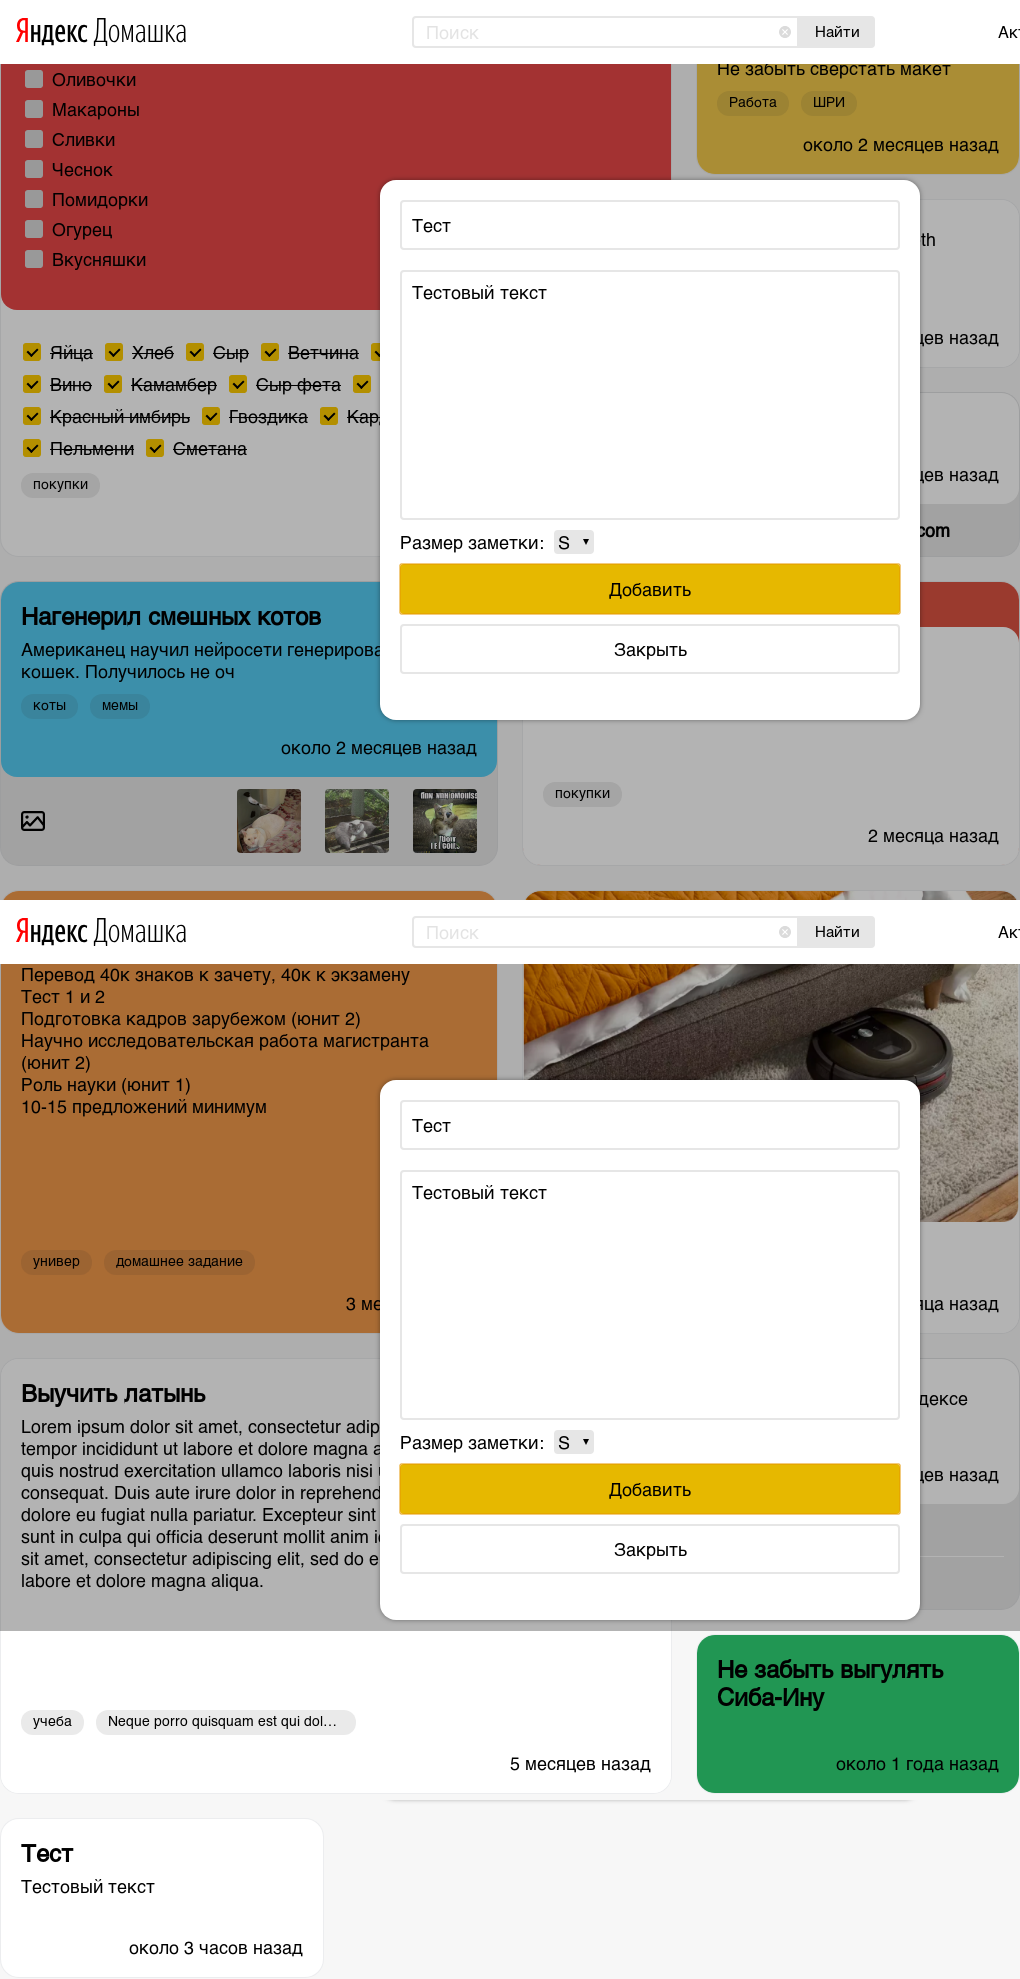
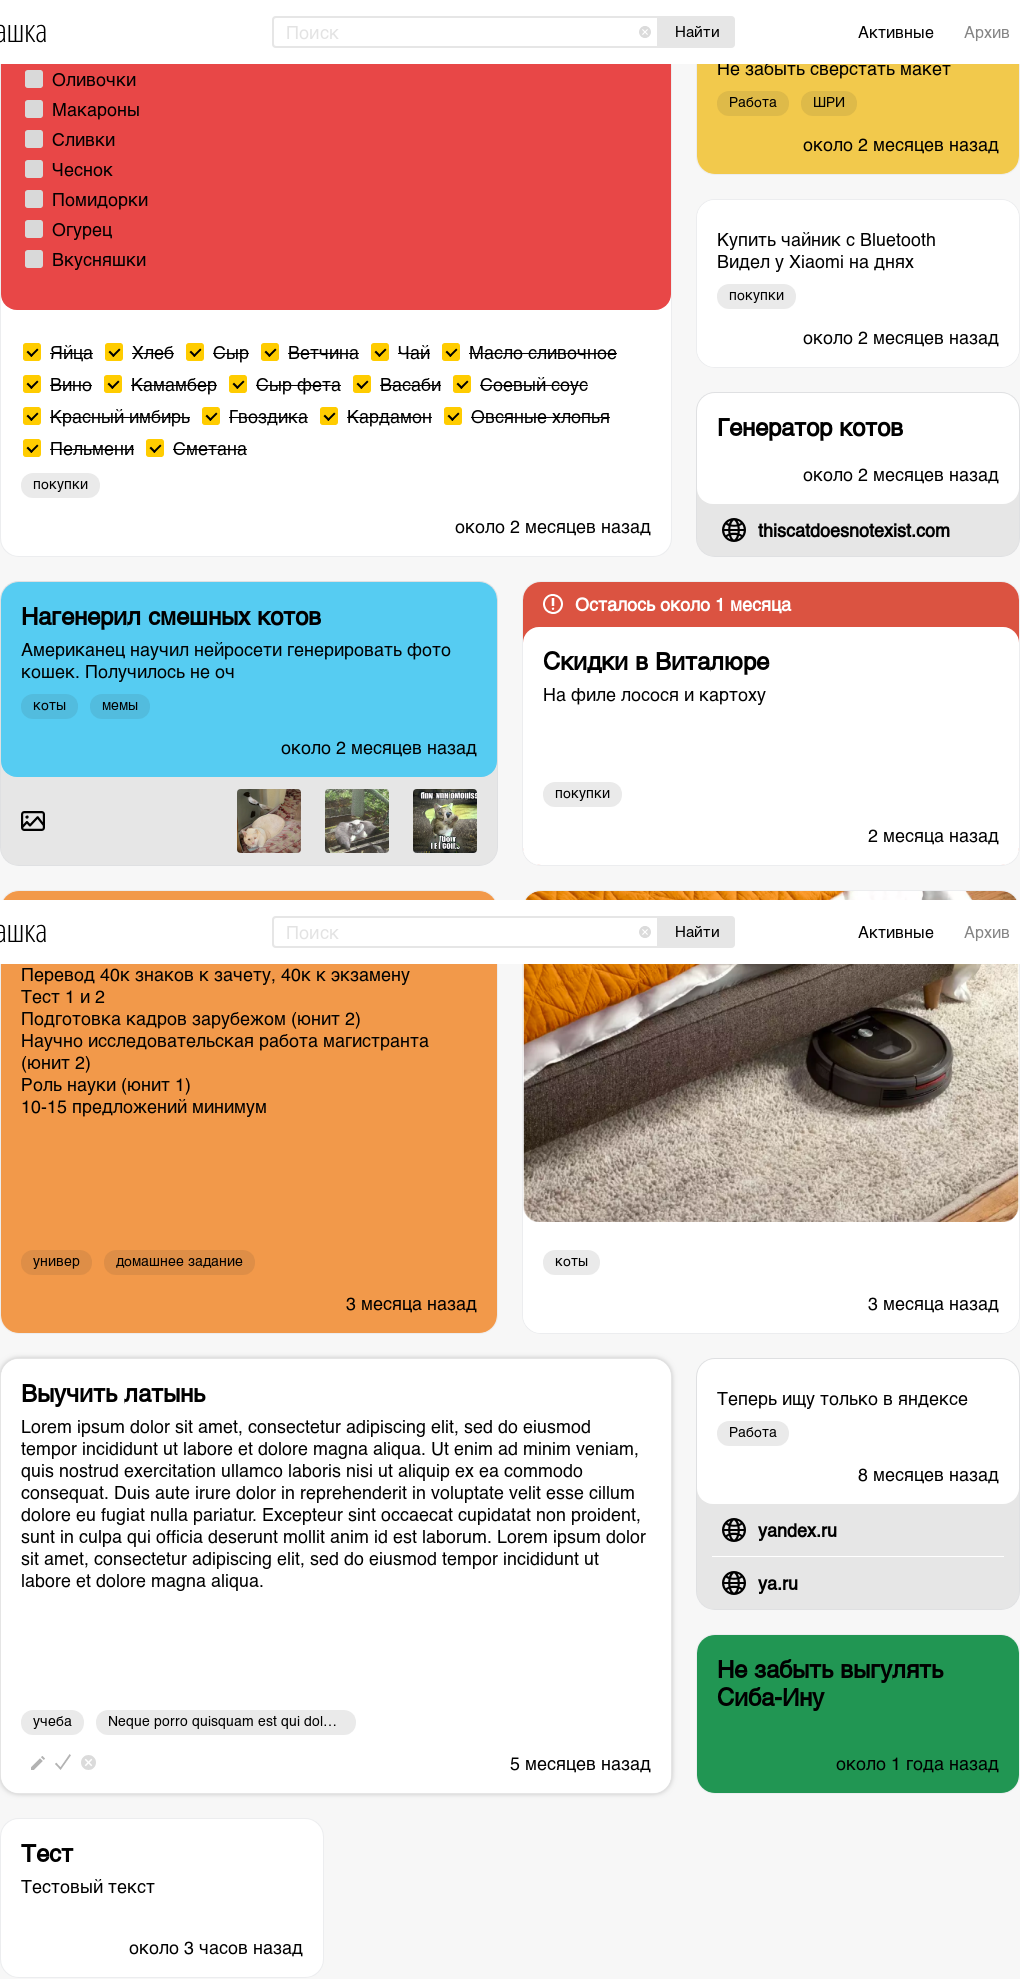
fix css

diff --git a/client/hermione/hermione-reports/data.js b/client/hermione/hermione-reports/data.js
@@ -1,2 +1,2 @@
-var data = {"skips":[],"suites":[{"name":"Web page tests: ","suitePath":["Web page tests: "],"children":[{"name":"Add note","suitePath":["Web page tests: ","Add note"],"browsers":[{"name":"chromeXL","result":{"suiteUrl":"http://localhost:3000/","name":"chromeXL","metaInfo":{"pid":14590,"url":"/","file":"hermione/simple.hermione.js","sessionId":"a38ec7e5594d2519bc608b02d3b5fac7"},"imagesInfo":[],"screenshot":false,"multipleTabs":true,"status":"success","attempt":0},"retries":[]}],"status":"success"},{"name":"Add note to archive","suitePath":["Web page tests: ","Add note to archive"],"browsers":[{"name":"chromeXL","result":{"suiteUrl":"http://localhost:3000/","name":"chromeXL","metaInfo":{"pid":14590,"url":"/","file":"hermione/simple.hermione.js","sessionId":"a38ec7e5594d2519bc608b02d3b5fac7"},"imagesInfo":[],"screenshot":false,"multipleTabs":true,"status":"success","attempt":0},"retries":[]}],"status":"success"},{"name":"Edit note","suitePath":["Web page tests: ","Edit note"],"browsers":[{"name":"chromeXL","result":{"suiteUrl":"http://localhost:3000/","name":"chromeXL","metaInfo":{"pid":14590,"url":"/","file":"hermione/simple.hermione.js","sessionId":"a38ec7e5594d2519bc608b02d3b5fac7"},"imagesInfo":[],"screenshot":false,"multipleTabs":true,"status":"success","attempt":0},"retries":[]}],"status":"success"},{"name":"Notes filter","suitePath":["Web page tests: ","Notes filter"],"browsers":[{"name":"chromeXL","result":{"suiteUrl":"http://localhost:3000/","name":"chromeXL","metaInfo":{"pid":14590,"url":"/","file":"hermione/simple.hermione.js","sessionId":"a38ec7e5594d2519bc608b02d3b5fac7"},"imagesInfo":[{"stateName":"filter","refImg":{"path":"/home/artem/Документы/yandex/homework/client/hermione/screens/521aa83/chromeXL/filter.png","size":{"width":1020,"height":105}},"status":"success","expectedImg":{"path":"images/521aa83/filter/chromeXL~ref_0.png","size":{"width":1020,"height":105}}}],"screenshot":false,"multipleTabs":true,"status":"success","attempt":0},"retries":[]}],"status":"success"},{"name":"Show note controls","suitePath":["Web page tests: ","Show note controls"],"browsers":[{"name":"chromeXL","result":{"suiteUrl":"http://localhost:3000/","name":"chromeXL","metaInfo":{"pid":14590,"url":"/","file":"hermione/simple.hermione.js","sessionId":"a38ec7e5594d2519bc608b02d3b5fac7"},"imagesInfo":[{"stateName":"showControls","refImg":{"path":"/home/artem/Документы/yandex/homework/client/hermione/screens/1230db3/chromeXL/showControls.png","size":{"width":688,"height":573}},"status":"success","expectedImg":{"path":"images/1230db3/showControls/chromeXL~ref_0.png","size":{"width":688,"height":573}}}],"screenshot":false,"multipleTabs":true,"status":"success","attempt":0},"retries":[]}],"status":"success"},{"name":"Show note form","suitePath":["Web page tests: ","Show note form"],"browsers":[{"name":"chromeXL","result":{"suiteUrl":"http://localhost:3000/","name":"chromeXL","metaInfo":{"pid":14590,"url":"/","file":"hermione/simple.hermione.js","sessionId":"a38ec7e5594d2519bc608b02d3b5fac7"},"imagesInfo":[{"stateName":"addButton","refImg":{"path":"/home/artem/Документы/yandex/homework/client/hermione/screens/8804339/chromeXL/addButton.png","size":{"width":556,"height":556}},"status":"success","expectedImg":{"path":"images/8804339/addButton/chromeXL~ref_0.png","size":{"width":556,"height":556}}}],"screenshot":false,"multipleTabs":true,"status":"success","attempt":0},"retries":[]}],"status":"success"}],"status":"success"}],"config":{"defaultView":"all","baseHost":"http://localhost:3000","scaleImages":false,"lazyLoadOffset":800,"errorPatterns":[]},"apiValues":{"extraItems":{},"metaInfoExtenders":{}},"date":"Tue Apr 23 2019 13:54:08 GMT+0300 (MSK)","total":6,"passed":6,"failed":0,"skipped":0,"retries":0,"perBrowser":{"chromeXL":{"total":6,"passed":6,"failed":0,"skipped":0,"retries":0}}};
+var data = {"skips":[],"suites":[{"name":"Web page tests: ","suitePath":["Web page tests: "],"children":[{"name":"Add note","suitePath":["Web page tests: ","Add note"],"browsers":[{"name":"chromeXL","result":{"suiteUrl":"http://localhost:3000/","name":"chromeXL","metaInfo":{"pid":12892,"url":"/","file":"hermione/simple.hermione.js","sessionId":"29ce4c0ed4bb5d46a0c3b0efc9bd4fa7"},"imagesInfo":[],"screenshot":false,"multipleTabs":true,"status":"success","attempt":0},"retries":[]}],"status":"success"},{"name":"Add note to archive","suitePath":["Web page tests: ","Add note to archive"],"browsers":[{"name":"chromeXL","result":{"suiteUrl":"http://localhost:3000/","name":"chromeXL","metaInfo":{"pid":12892,"url":"/","file":"hermione/simple.hermione.js","sessionId":"29ce4c0ed4bb5d46a0c3b0efc9bd4fa7"},"imagesInfo":[{"stateName":"archive","refImg":{"path":"/home/artem/Документы/yandex/homework/client/hermione/screens/a760b58/chromeXL/archive.png","size":{"width":1020,"height":555}},"status":"success","expectedImg":{"path":"images/a760b58/archive/chromeXL~ref_0.png","size":{"width":1020,"height":555}}}],"screenshot":false,"multipleTabs":true,"status":"success","attempt":0},"retries":[]}],"status":"success"},{"name":"Edit note","suitePath":["Web page tests: ","Edit note"],"browsers":[{"name":"chromeXL","result":{"suiteUrl":"http://localhost:3000/","name":"chromeXL","metaInfo":{"pid":12892,"url":"/","file":"hermione/simple.hermione.js","sessionId":"29ce4c0ed4bb5d46a0c3b0efc9bd4fa7"},"imagesInfo":[{"stateName":"edit","refImg":{"path":"/home/artem/Документы/yandex/homework/client/hermione/screens/0dfdb0e/chromeXL/edit.png","size":{"width":556,"height":556}},"status":"success","expectedImg":{"path":"images/0dfdb0e/edit/chromeXL~ref_0.png","size":{"width":556,"height":556}}}],"screenshot":false,"multipleTabs":true,"status":"success","attempt":0},"retries":[]}],"status":"success"},{"name":"Notes filter","suitePath":["Web page tests: ","Notes filter"],"browsers":[{"name":"chromeXL","result":{"suiteUrl":"http://localhost:3000/","name":"chromeXL","metaInfo":{"pid":12892,"url":"/","file":"hermione/simple.hermione.js","sessionId":"29ce4c0ed4bb5d46a0c3b0efc9bd4fa7"},"imagesInfo":[],"screenshot":false,"multipleTabs":true,"status":"success","attempt":0},"retries":[]}],"status":"success"},{"name":"Show note controls","suitePath":["Web page tests: ","Show note controls"],"browsers":[{"name":"chromeXL","result":{"suiteUrl":"http://localhost:3000/","name":"chromeXL","metaInfo":{"pid":12892,"url":"/","file":"hermione/simple.hermione.js","sessionId":"29ce4c0ed4bb5d46a0c3b0efc9bd4fa7"},"imagesInfo":[{"stateName":"showControls","refImg":{"path":"/home/artem/Документы/yandex/homework/client/hermione/screens/1230db3/chromeXL/showControls.png","size":{"width":688,"height":573}},"status":"success","expectedImg":{"path":"images/1230db3/showControls/chromeXL~ref_0.png","size":{"width":688,"height":573}}}],"screenshot":false,"multipleTabs":true,"status":"success","attempt":0},"retries":[]}],"status":"success"},{"name":"Show note form","suitePath":["Web page tests: ","Show note form"],"browsers":[{"name":"chromeXL","result":{"suiteUrl":"http://localhost:3000/","name":"chromeXL","metaInfo":{"pid":12892,"url":"/","file":"hermione/simple.hermione.js","sessionId":"29ce4c0ed4bb5d46a0c3b0efc9bd4fa7"},"imagesInfo":[{"stateName":"addButton","refImg":{"path":"/home/artem/Документы/yandex/homework/client/hermione/screens/8804339/chromeXL/addButton.png","size":{"width":556,"height":556}},"status":"success","expectedImg":{"path":"images/8804339/addButton/chromeXL~ref_0.png","size":{"width":556,"height":556}}}],"screenshot":false,"multipleTabs":true,"status":"success","attempt":0},"retries":[]}],"status":"success"}],"status":"success"}],"config":{"defaultView":"all","baseHost":"http://localhost:3000","scaleImages":false,"lazyLoadOffset":800,"errorPatterns":[]},"apiValues":{"extraItems":{},"metaInfoExtenders":{}},"date":"Tue Apr 23 2019 15:26:05 GMT+0300 (MSK)","total":6,"passed":6,"failed":0,"skipped":0,"retries":0,"perBrowser":{"chromeXL":{"total":6,"passed":6,"failed":0,"skipped":0,"retries":0}}};
 try { module.exports = data; } catch(e) {}

diff --git a/server/lib/index.js b/server/lib/index.js
@@ -17,10 +17,12 @@ app.get("/api/cards", (req, res) => {
         if (colorObj) {
             const cards = nts.getNotesByColor(colorObj.color);
             res.send(cards);
-        } else {
+        }
+        else {
             res.status(400).send("Incorrect color");
         }
-    } else {
+    }
+    else {
         res.send(nts.getAllNotes(false));
     }
 });
@@ -28,7 +30,8 @@ app.get("/api/archive", (req, res) => {
     if (req.query.id) {
         nts.addToArchive(+req.query.id);
         res.status(200).send("Added");
-    } else {
+    }
+    else {
         res.send(nts.getAllNotes(true));
     }
 });

diff --git a/test/test.js b/test/test.js
@@ -9,10 +9,8 @@ describe("Notes class: ", function() {
         nts.addNote(data.notes[0]);
         assert.strictEqual(nts.getAllNotes(false).length, 1);
     });
-
-    Notes.factory(nts, data.notes, data.colors, data.tags);
-
     it("Initialization of notes array", function() {
+        Notes.factory(nts, data.notes, data.colors, data.tags);
         const notesArr = nts.getAllNotes(false);
         notesArr.forEach(item => {
             assert.strictEqual(typeof item.data.type, "string");

diff --git a/client/src/componenets/NoteForm/NoteForm.module.scss b/client/src/componenets/NoteForm/NoteForm.module.scss
@@ -1,13 +1,13 @@
 .noteFormBackground {
   position: absolute;
-  float: left;
-  z-index: 1;
-  width: 1000vw;
-  height: 1000vh;
+  z-index: 998;
   background: #000;
   opacity: 0.3;
-  left: -100vw;
-  bottom: -100vh;
+  position: absolute;
+  height: 10000vh;
+  width: 100%;
+  top:0;
+  left:0;
 }
 
 .noteForm {

diff --git a/client/src/componenets/Filter/Filter.tsx b/client/src/componenets/Filter/Filter.tsx
@@ -31,6 +31,11 @@ export const Filter: React.FC<Filter> = ({colors}) => {
               }
           }}
           style={{backgroundColor: item.color}}/>);
+
+    useEffect(() => {
+
+    }, [currColor]);
+
     return (
     <div className={styles.filter}>
       <div className={styles.title}>Заметки</div>

diff --git a/client/src/componenets/NoteForm/NoteForm.tsx b/client/src/componenets/NoteForm/NoteForm.tsx
@@ -21,6 +21,8 @@ export const NoteForm: React.FC<NoteFormProps> = ({showForm}) => {
             created: Date.now(),
         };
         addCard(dispatch, note);
+        showForm(false);
+        disableScroll(false);
         e.preventDefault();
     };
     const disableScroll = (state: boolean) => {

diff --git a/client/src/componenets/Filter/Filter.module.scss b/client/src/componenets/Filter/Filter.module.scss
@@ -30,16 +30,16 @@
         opacity: 1;
       }
 
-      .select{
-        opacity: 1;
-        border: 3px solid #aaa;
-      }
-
       &:not(:first-child) {
         margin-left: 16px;
       }
     }
   }
+}
+
+.select{
+  opacity: 1!important;
+  border: 3px solid #aaa!important;
 }
 
 
